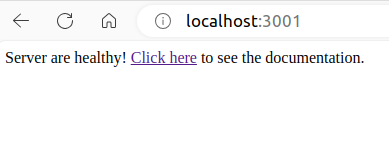
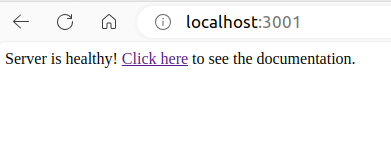
style: "are" to "is" and previews changing

diff --git a/backend/api/app.js b/backend/api/app.js
@@ -11,7 +11,7 @@ app.use(cors());
 
 app.get('/', (_req, res) => {
   res.send(`
-    Server are healthy!
+    Server is healthy!
     <a href="https://github.com/luandersonalvesdev/store-smartphone-manager"> Click here</a> to see the documentation.
     `);
 });
